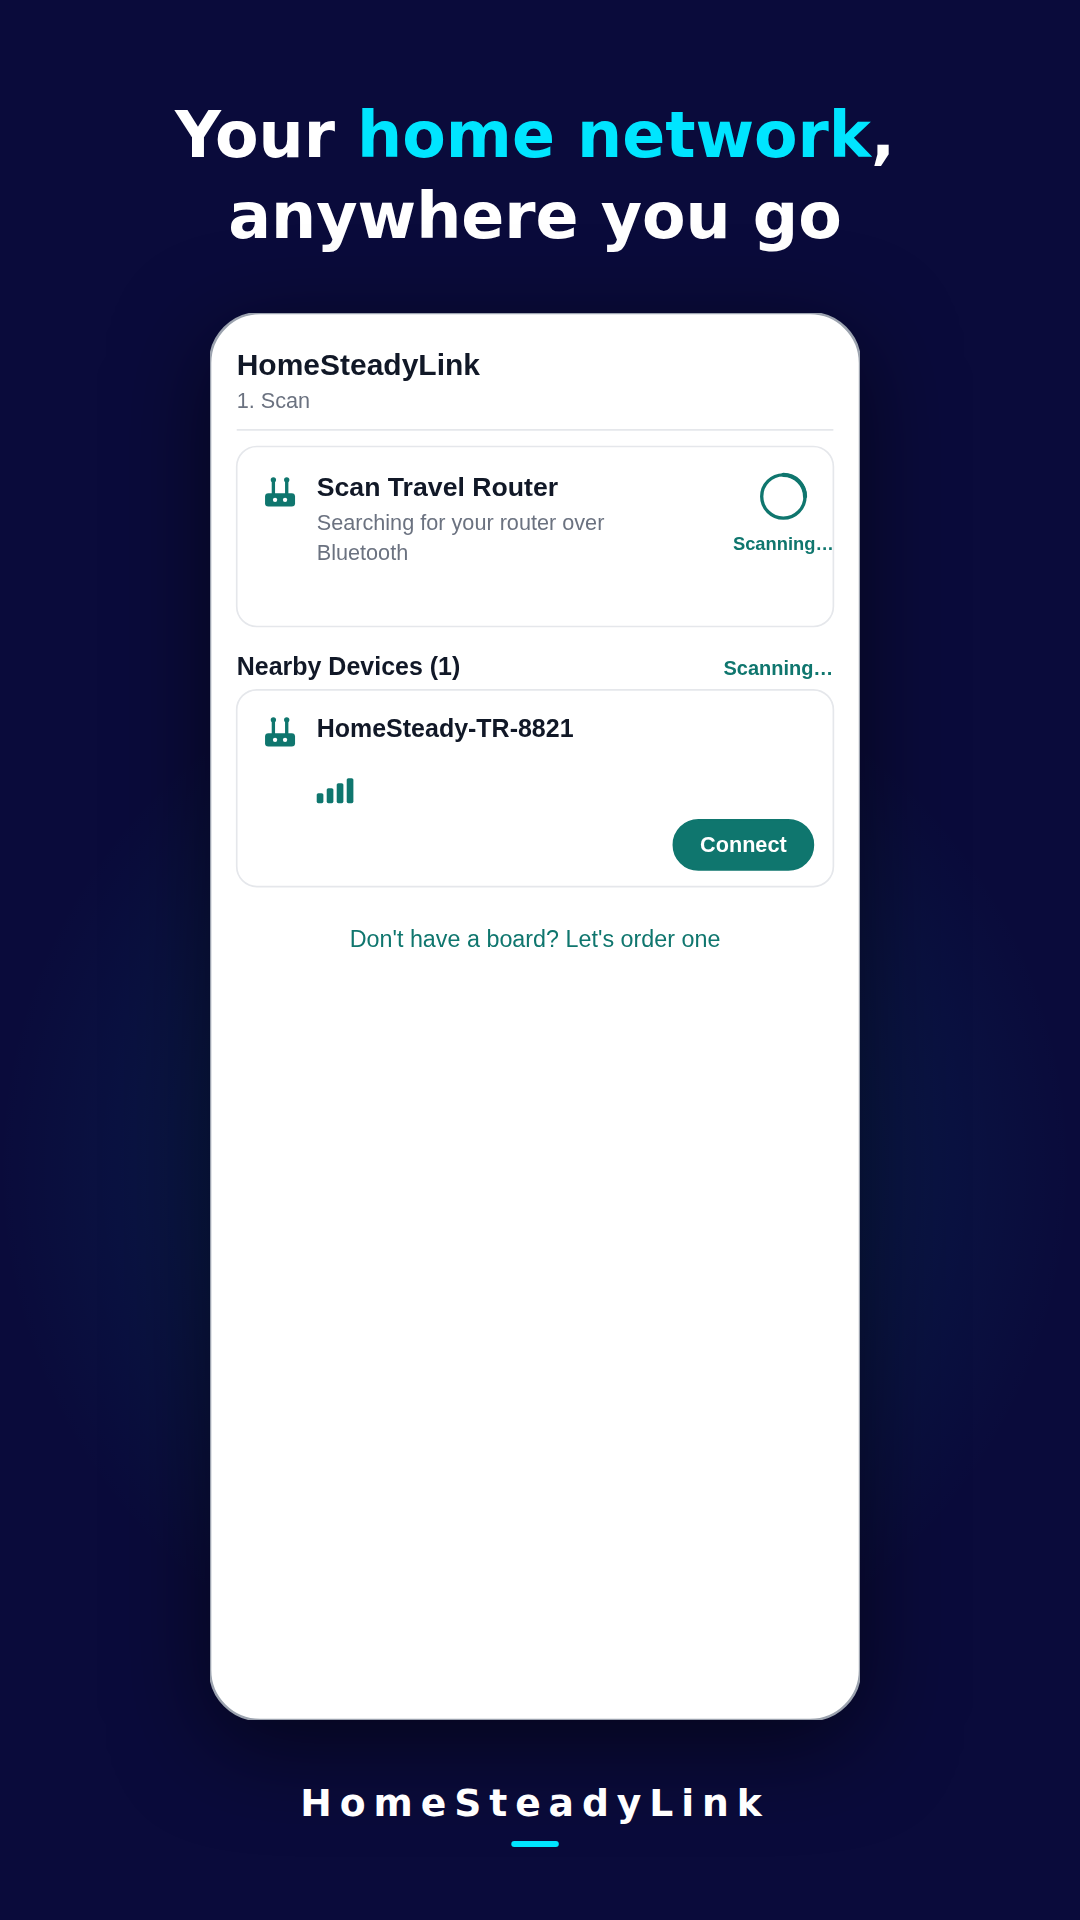
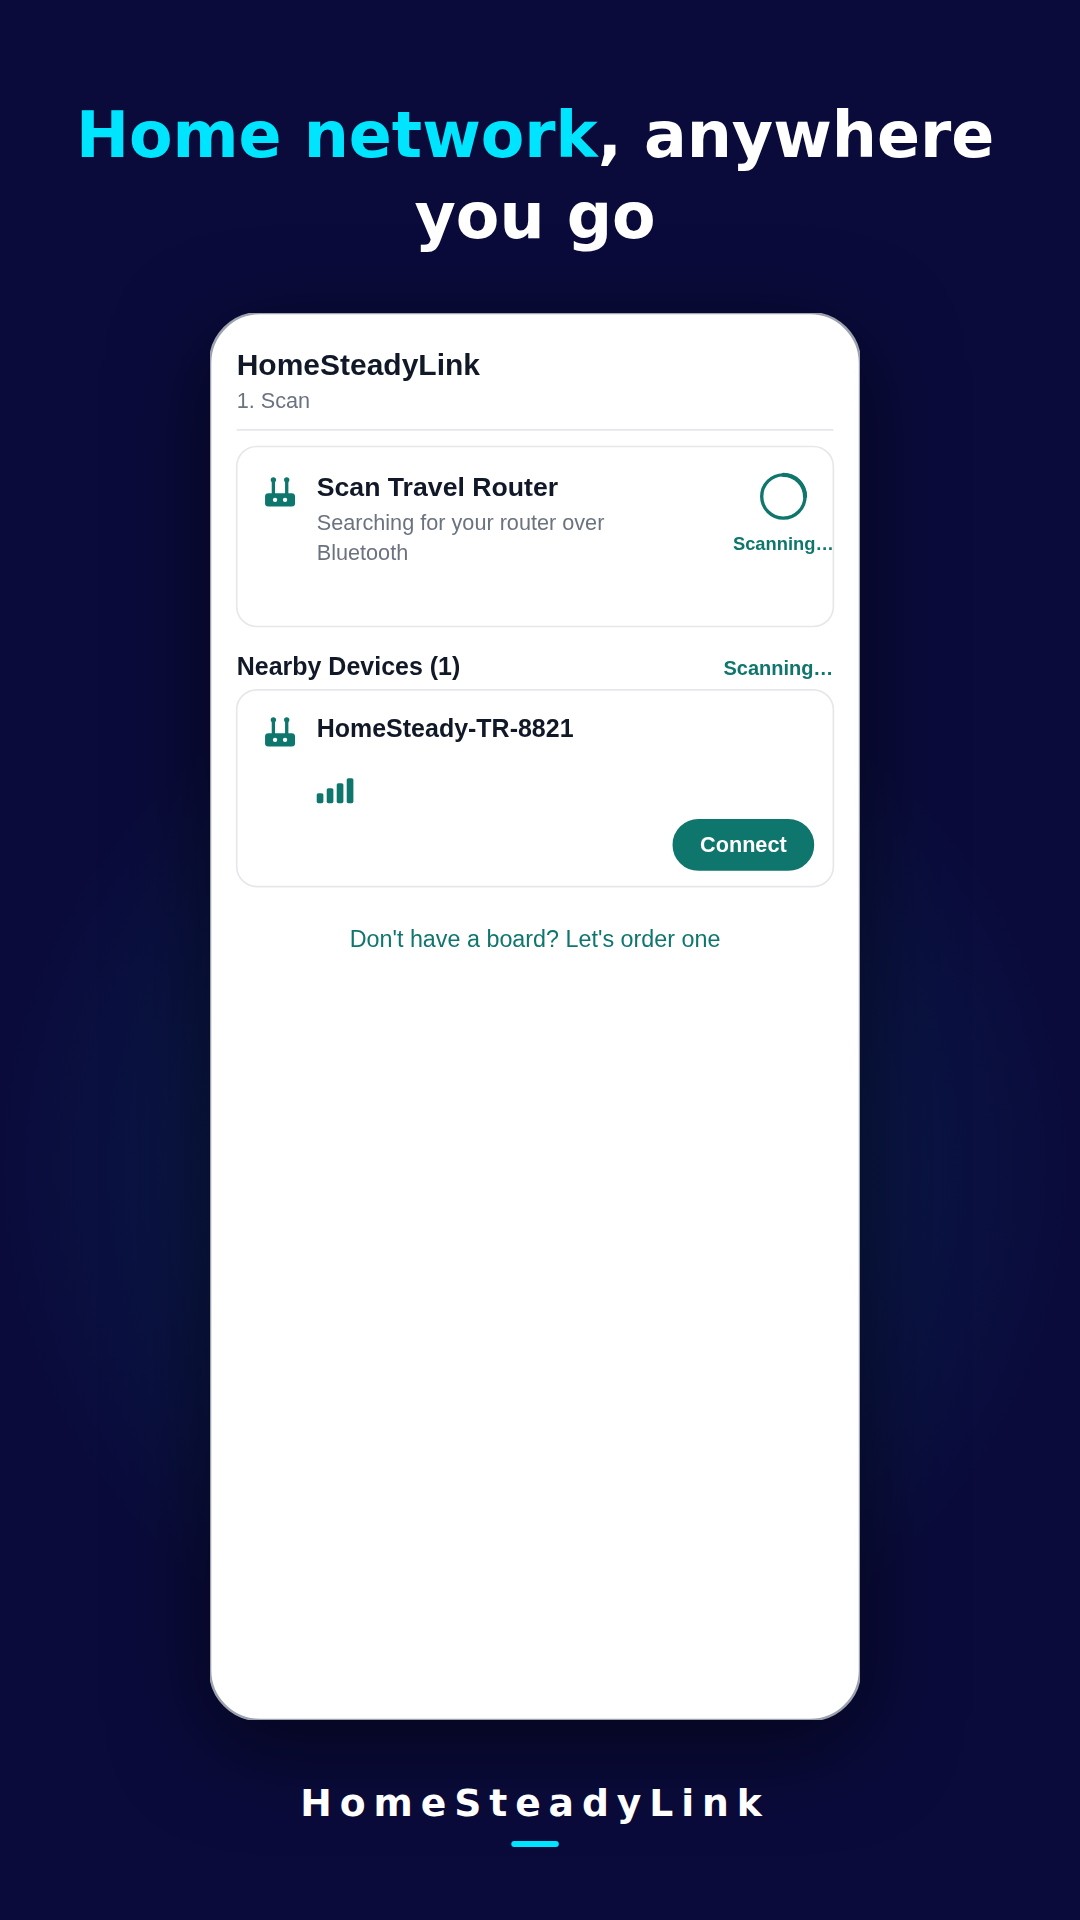
design: ASO reorder + 2-5 word captions for Play screenshot cards
Per the app-store-optimization skill: slot 1 primary value (Scan),
slot 2 core differentiator (VPN + kill switch), slot 3 next strongest
feature (Device control), slots 4-5 supporting setup steps (Wi-Fi,
Pair). File number = Play slot number. Captions trimmed to 2-5 words:
card 1 tagline minus 'Your', card 2 drops 'VPN on.', card 4 'Join
any Wi-Fi in seconds'. First-fold preview (slots 1-3 at 300px)
verified: three distinct benefits, captions readable. Critic PASS
5/5 (KPI / product / brand, 2026-11-18).

Changed region(s): [[0.0611, 0.0625, 0.9167, 0.1562]]

diff --git a/design/play-screenshots/README.md b/design/play-screenshots/README.md
@@ -7,11 +7,19 @@ cyan #00E5FF, style Bold, tagline "Your home network, anywhere you go".
 
 | # | File | Headline | Screen |
 |---|------|----------|--------|
-| 1 | 01-scan-home-network.png | Your home network, anywhere you go | Scan — finds the router, Connect |
-| 2 | 02-pair-one-code.png | One code pairs your router | Pair — 6-digit setup code |
-| 3 | 03-wifi-pick-network.png | Pick any Wi-Fi, join in seconds | Wi-Fi — pick network, enter password |
-| 4 | 04-vpn-kill-switch.png | VPN on. Kill switch on. Nothing leaks. | VPN — WireGuard/Tailscale, masked config |
-| 5 | 05-device-control.png | Control your router from anywhere | Device — status, VPN toggle, controls |
+| 1 | 01-scan-home-network.png | Home network, anywhere you go | Scan — finds the router, Connect |
+| 2 | 02-vpn-kill-switch.png | Kill switch on. Nothing leaks. | VPN — WireGuard/Tailscale, masked config |
+| 3 | 03-device-control.png | Control your router from anywhere | Device — status, VPN toggle, controls |
+| 4 | 04-wifi-pick-network.png | Join any Wi-Fi in seconds | Wi-Fi — pick network, enter password |
+| 5 | 05-pair-one-code.png | One code pairs your router | Pair — 6-digit setup code |
+
+Order follows the app-store-optimization skill: slot 1 primary value,
+slot 2 core differentiator (VPN + kill switch), slot 3 next strongest
+feature (device control), slots 4–5 supporting setup steps. File
+number = Play slot number — upload in filename order. Every caption
+is benefit-oriented, 2–5 words. Card 1's headline is the brand
+tagline trimmed to 5 words ("Your" dropped); the verbatim 6-word
+tagline stays on the feature graphic and in the listing copy.
 
 ## Source (provenance — read before replacing)
 
@@ -41,6 +49,15 @@ feature shown that doesn't exist; no verified-pairing claim), Check 3
 brand (same two colors, same tagline, Bold, same wordmark as the
 feature graphic v3 and the landing). Headlines checked by reading the
 renders at full size and at 300 px (Play search size).
+
+Re-ordered 2026-11-18 per the app-store-optimization skill (slot 1
+primary value, slot 2 core differentiator, slot 3 next strongest
+feature; all captions benefit-oriented, 2–5 words). First-fold
+preview (slots 1–3 side by side at 300 px) verified: three distinct
+benefits, captions readable, no onboarding/splash screen in the
+first 3. Card 1's headline is the tagline trimmed to 5 words; the
+verbatim 6-word tagline stays on the feature graphic and in the
+listing copy.
 
 ## Build
 
